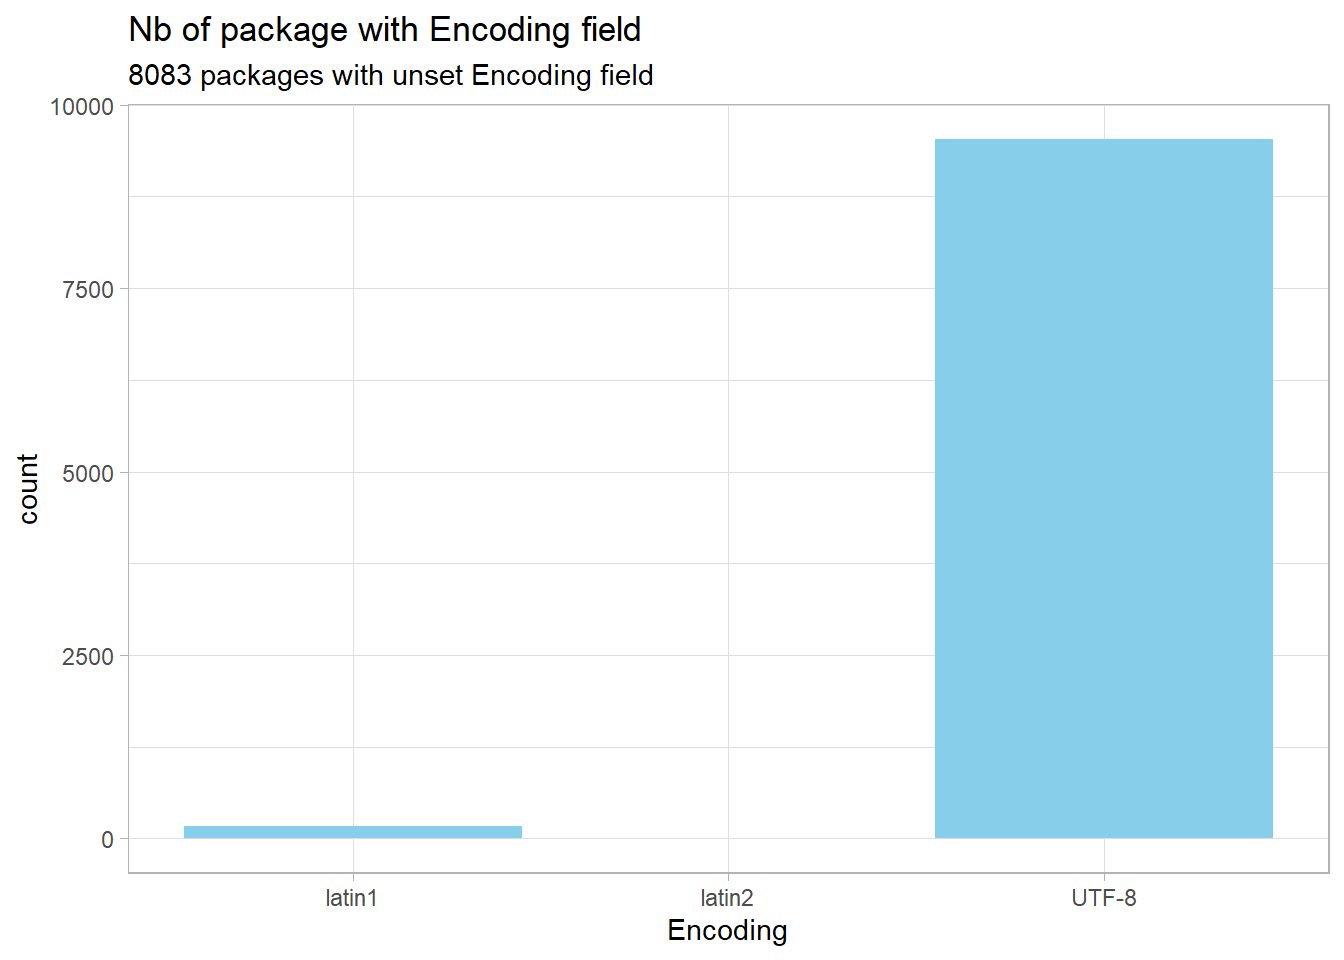
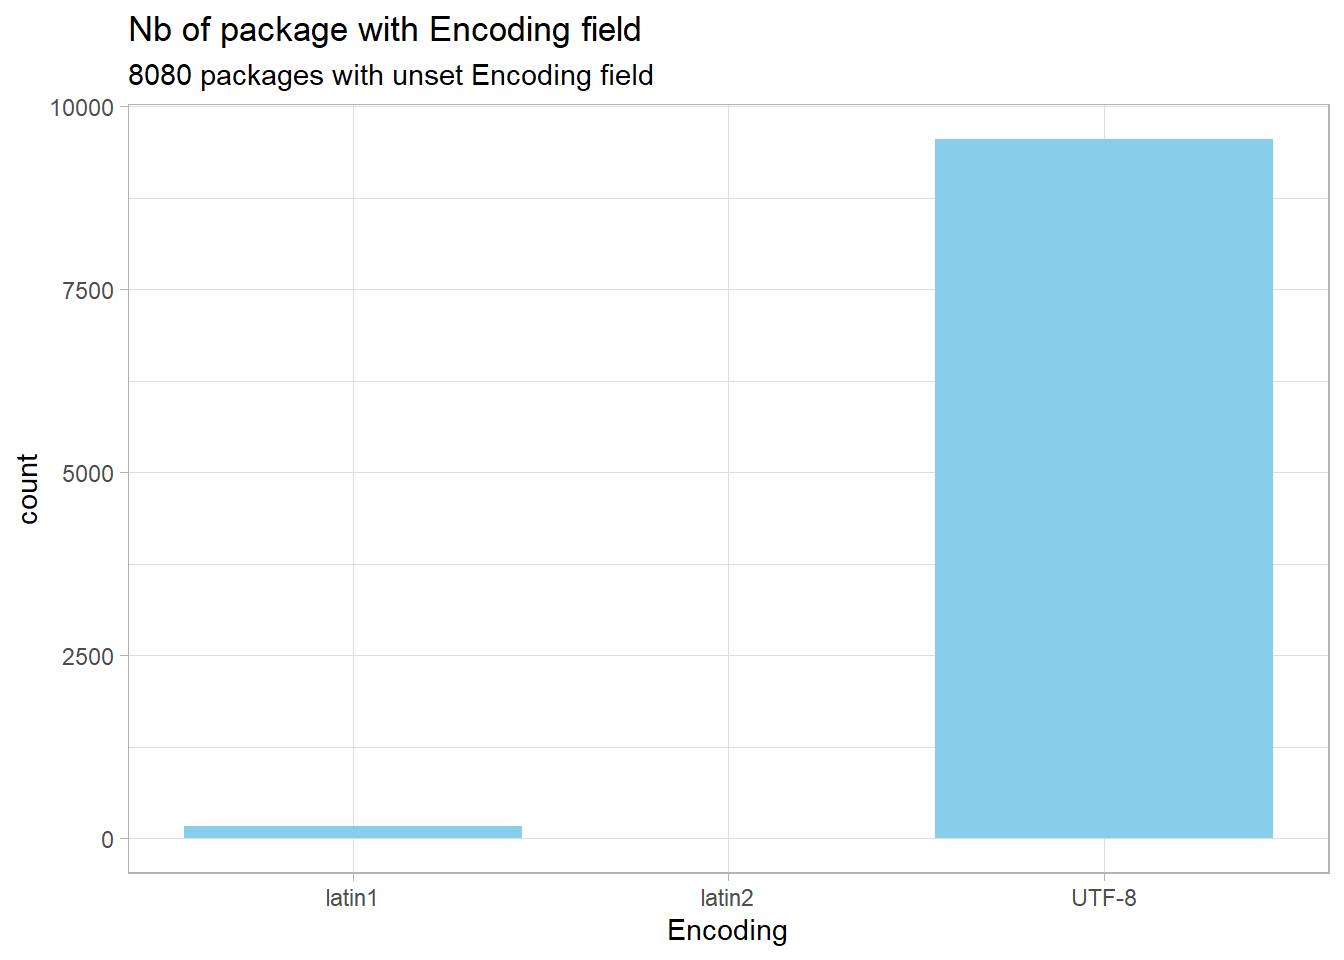
rebuild old post

Changed region(s): [[0.0312, 0.2812, 0.0938, 0.3125], [0.0312, 0.0938, 0.0938, 0.125], [0.125, 0.0625, 0.1562, 0.0938]]

diff --git a/content/post/2018-03-11-non-english-pkg-in-cran/index.html b/content/post/2018-03-11-non-english-pkg-in-cran/index.html
@@ -21,7 +21,7 @@ tags:
 <pre class="r"><code>to_keep  &lt;- c(&quot;Package&quot;, &quot;Title&quot;, &quot;Description&quot;, &quot;Encoding&quot;, &quot;Language&quot;)
 cran_db &lt;- tools::CRAN_package_db()[to_keep] %&gt;% as_tibble()
 glimpse(cran_db)</code></pre>
-<pre><code>## Rows: 17,781
+<pre><code>## Rows: 17,802
 ## Columns: 5
 ## $ Package     &lt;chr&gt; &quot;A3&quot;, &quot;aaSEA&quot;, &quot;AATtools&quot;, &quot;ABACUS&quot;, &quot;abbyyR&quot;, &quot;abc&quot;, &quot;abc~
 ## $ Title       &lt;chr&gt; &quot;Accurate, Adaptable, and Accessible Error Metrics for Pre~
@@ -110,10 +110,10 @@ ggplot(cran_db_with_lang %&gt;% filter(detected != &quot;ENGLISH&quot;)) +
 <colgroup>
 <col width="10%" />
 <col width="15%" />
-<col width="57%" />
+<col width="58%" />
 <col width="5%" />
 <col width="5%" />
-<col width="6%" />
+<col width="5%" />
 </colgroup>
 <thead>
 <tr class="header">
@@ -551,6 +551,30 @@ Yontemler”.</td>
 <td align="center">TURKISH</td>
 </tr>
 <tr class="odd">
+<td align="center">MultivariateAnalysis</td>
+<td align="center">Pacote Para Analise
+Multivariada</td>
+<td align="center">Package with multivariate
+analysis methodologies for
+experiment evaluation. The
+package estimates
+dissimilarity measures, builds
+dendrograms, obtains MANOVA,
+principal components,
+canonical variables, etc.
+(Pacote com metodologias de
+analise multivariada para
+avaliação de experimentos. O
+pacote estima medidas de
+dissimilaridade, construi de
+dendogramas, obtem a MANOVA,
+componentes principais,
+variáveis canônicas, etc.)</td>
+<td align="center">UTF-8</td>
+<td align="center">pt-BR</td>
+<td align="center">PORTUGUESE</td>
+</tr>
+<tr class="even">
 <td align="center">MVar.pt</td>
 <td align="center">Analise multivariada
 (brazilian portuguese)</td>
@@ -580,7 +604,7 @@ para a analise multivariada.</td>
 <td align="center">pt_BR</td>
 <td align="center">PORTUGUESE</td>
 </tr>
-<tr class="even">
+<tr class="odd">
 <td align="center">orloca.es</td>
 <td align="center">Spanish version of orloca
 package. Modelos de
@@ -627,7 +651,7 @@ Operations Research, 167, pg.
 <td align="center">es</td>
 <td align="center">SPANISH</td>
 </tr>
-<tr class="odd">
+<tr class="even">
 <td align="center">PortalHacienda</td>
 <td align="center">Acceder Con R a Los Datos Del
 Portal De Hacienda</td>
@@ -650,7 +674,7 @@ Hyndman RJ, Khandakar Y
 <td align="center">NA</td>
 <td align="center">SPANISH</td>
 </tr>
-<tr class="even">
+<tr class="odd">
 <td align="center">praktikum</td>
 <td align="center">Kvantitatiivsete meetodite
 praktikumi asjad / Functions
@@ -667,7 +691,7 @@ jaoks</td>
 <td align="center">et</td>
 <td align="center">ESTONIAN</td>
 </tr>
-<tr class="odd">
+<tr class="even">
 <td align="center">proustr</td>
 <td align="center">Tools for Natural Language
 Processing in French</td>
@@ -688,7 +712,7 @@ retrouve”.</td>
 <td align="center">NA</td>
 <td align="center">FRENCH</td>
 </tr>
-<tr class="even">
+<tr class="odd">
 <td align="center">qha</td>
 <td align="center">Qualitative Harmonic Analysis</td>
 <td align="center">Multivariate description of
@@ -718,7 +742,7 @@ Estadistica, 8(1), 11-32.</td>
 <td align="center">NA</td>
 <td align="center">SPANISH</td>
 </tr>
-<tr class="odd">
+<tr class="even">
 <td align="center">qqr</td>
 <td align="center">Data from Brazilian Soccer
 Championship</td>
@@ -731,7 +755,7 @@ found at
 <td align="center">NA</td>
 <td align="center">PORTUGUESE</td>
 </tr>
-<tr class="even">
+<tr class="odd">
 <td align="center">Rarefy</td>
 <td align="center">Rarefaction Methods</td>
 <td align="center">Includes functions for the
@@ -768,7 +792,7 @@ Neteler, M., &amp; Chiarucci, A.
 <td align="center">NA</td>
 <td align="center">ITALIAN</td>
 </tr>
-<tr class="odd">
+<tr class="even">
 <td align="center">rasterdiv</td>
 <td align="center">Diversity Indices for
 Numerical Matrices</td>
@@ -787,7 +811,7 @@ Ricotta (2021)
 <td align="center">en-GB</td>
 <td align="center">ITALIAN</td>
 </tr>
-<tr class="even">
+<tr class="odd">
 <td align="center">RcmdrPlugin.EACSPIR</td>
 <td align="center">Plugin de R-Commander para el
 Manual ‘EACSPIR’</td>
@@ -806,7 +830,7 @@ del programa R-Commander.</td>
 <td align="center">es</td>
 <td align="center">SPANISH</td>
 </tr>
-<tr class="odd">
+<tr class="even">
 <td align="center">Sofi</td>
 <td align="center">Interfaz interactiva con fines
 didacticos</td>
@@ -821,7 +845,7 @@ clase interactivos.</td>
 <td align="center">es</td>
 <td align="center">SPANISH</td>
 </tr>
-<tr class="even">
+<tr class="odd">
 <td align="center">SpatialRegimes</td>
 <td align="center">Spatial Constrained
 Clusterwise Regression</td>
@@ -855,6 +879,31 @@ and Postiglione, P. (2017)
 <td align="center">NA</td>
 <td align="center">NA</td>
 <td align="center">ITALIAN</td>
+</tr>
+<tr class="even">
+<td align="center">swissdd</td>
+<td align="center">Get Swiss Federal and Cantonal
+Vote Results from
+Opendata.swiss</td>
+<td align="center">Builds upon the real time data
+service as well as the archive
+for national votes
+<a href="https://opendata.swiss/api/3/action/package_show?id=echtzeitdaten-am-abstimmungstag-zu-eidgenoessischen-abstimmungsvorlagen" class="uri">https://opendata.swiss/api/3/action/package_show?id=echtzeitdaten-am-abstimmungstag-zu-eidgenoessischen-abstimmungsvorlagen</a>
+and cantonal votes
+<a href="https://opendata.swiss/api/3/action/package_show?id=echtzeitdaten-am-abstimmungstag-zu-kantonalen-abstimmungsvorlagen" class="uri">https://opendata.swiss/api/3/action/package_show?id=echtzeitdaten-am-abstimmungstag-zu-kantonalen-abstimmungsvorlagen</a>.
+It brings the results of Swiss
+popular votes, aggregated at
+the geographical level of
+choice, into R. Additionally,
+it allows to retrieve data
+from the Swissvotes-Database,
+one of the most comprehensive
+data platforms on Swiss
+referendums and initiatives
+<a href="https://swissvotes.ch/page/dataset/swissvotes_dataset.csv" class="uri">https://swissvotes.ch/page/dataset/swissvotes_dataset.csv</a>.</td>
+<td align="center">UTF-8</td>
+<td align="center">NA</td>
+<td align="center">GERMAN</td>
 </tr>
 <tr class="odd">
 <td align="center">Tratamentos.ad</td>
